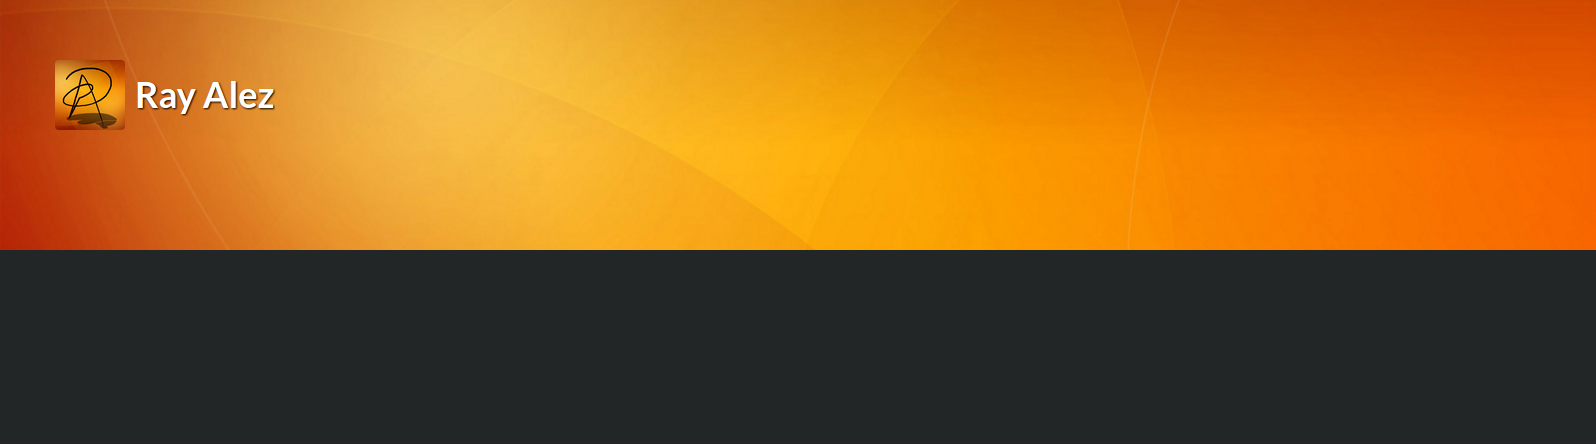
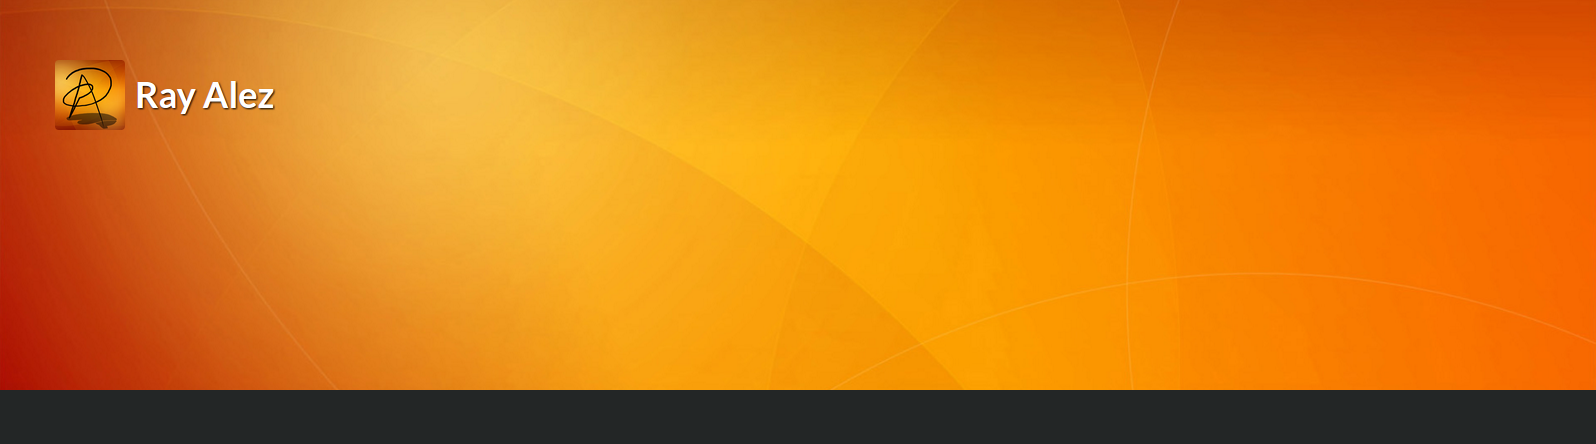
Update.

diff --git a/webcomics/templates/posts/browse.html b/webcomics/templates/posts/browse.html
@@ -3,78 +3,77 @@ n{% load thumbnail %}
 
 {% block content %}
 
-
-<!-- <div class="orbit" role="region"data-orbit data-use-m-u-i="false"> -->
-<!--         <ul class="orbit-container"> -->
-<!--           <button class="orbit-previous" aria-label="previous"><span class="show-for-sr">Previous Slide</span>&#9664;</button> -->
-<!--           <button class="orbit-next" aria-label="next"><span class="show-for-sr">Next Slide</span>&#9654;</button> -->
+<div id="featured">
+<div class="orbit" role="region"data-orbit data-use-m-u-i="false">
+        <ul class="orbit-container">
+          <button class="orbit-previous" aria-label="previous"><span class="show-for-sr">Previous Slide</span>&#9664;</button>
+          <button class="orbit-next" aria-label="next"><span class="show-for-sr">Next Slide</span>&#9654;</button>
 	  
-<!--           <li class="is-active orbit-slide"> -->
-<!--             <div> -->
-<!-- 	      <a href="/post/welcome"> -->
-<!-- 	      <img src="/static/img/valley.jpg" style="position:relative;width:100%;top:-320px;" /> -->
-<!-- 	      <figcaption class="orbit-caption">Featured post: &nbsp; Welcome!</figcaption> -->
-<!-- 	      </a> -->
-<!--             </div> -->
-<!--           </li> -->
+          <li class="is-active orbit-slide">
+            <div>
+	      <a href="/post/welcome">
+	      <img src="/static/img/featured/valley_cropped.png" style="width:100%" />
+	      <figcaption class="orbit-caption">Featured post: &nbsp; Welcome!</figcaption>
+	      </a>
+            </div>
+          </li>
 
 
 
-<!--           <li class="is-active orbit-slide"> -->
-<!--             <div> -->
-<!--  	      <a href="/series/orange-mind"> -->
-<!--  		<\!-- -->
-<!--  	      <div class="subheader series-subheader" deluminate_imagetype="png"> -->
-<!--  		<style> -->
-<!--  		  .subheader { -->
-<!--  		  background:url(/media/cache/7a/e4/7ae4e6228a286e89e5456dce06c63fad.png); -->
-<!--  		  } -->
-<!--  		</style> -->
-<!--  		<div class="row"> -->
-<!--  		  <div class="large-6 small-6 columns user-info"> -->
-<!--  		      <img src="/media/cache/aa/fe/aafed867e404d07676ac3f6008f8f7dc.png" class="avatar"> -->
-<!--  		      <div class="left"> -->
-<!--  			<h1 class="username" style="margin-top: 16px;"> Orange Mind</h1> -->
-<!--  		      </div> -->
-<!--  		  </div> -->
-<!--  		</div> -->
-<!--  	      </div> -->
-<!--  -\-> -->
-<!--  	    <img src="/static/img/featured/orange-mind4.png" style="margin-top:-30px;margin-left:-10px;"/> -->
-<!--  	    <img src="http://webcomics.io/media/cache/86/50/8650602b5bb95e760ecd8ff3f9b7f012.png" -->
-<!--  		 style="position:relative;width:100%;top:-0;" /> -->
-<!--  	    <figcaption class="orbit-caption">Featured series: &nbsp; Orange Mind</figcaption> -->
+          <li class="is-active orbit-slide">
+            <div>
+ 	      <a href="/series/orange-mind">
+ 		<!--
+ 	      <div class="subheader series-subheader" deluminate_imagetype="png">
+ 		<style>
+ 		  .subheader {
+ 		  background:url(/media/cache/7a/e4/7ae4e6228a286e89e5456dce06c63fad.png);
+ 		  }
+ 		</style>
+ 		<div class="row">
+ 		  <div class="large-6 small-6 columns user-info">
+ 		      <img src="/media/cache/aa/fe/aafed867e404d07676ac3f6008f8f7dc.png" class="avatar">
+ 		      <div class="left">
+ 			<h1 class="username" style="margin-top: 16px;"> Orange Mind</h1>
+ 		      </div>
+ 		  </div>
+ 		</div>
+ 	      </div>
+ -->
+ 	    <img src="/static/img/featured/orange-mind5.png" style="width:100%; margin-top:-30px;margin-left:-10px;"/>
+ 	    <figcaption class="orbit-caption">Featured series: &nbsp; Orange Mind</figcaption>
 		
-<!--  	      </a> -->
-<!--             </div> -->
-<!--           </li> -->
+ 	      </a>
+            </div>
+          </li>
 
 
-<!--           <li class="is-active orbit-slide"> -->
-<!--             <div> -->
-<!--  	      <a href="/user/rayalez"> -->
-
-<!--  	    <img src="/static/img/featured/ray-alez4.png" style="margin-top:-8px;"/> -->
-<!--  	    <img src="http://webcomics.io/media/cache/86/50/8650602b5bb95e760ecd8ff3f9b7f012.png" -->
-<!--  		 style="position:relative;width:100%;top:-0;" /> -->
-<!--  	    <figcaption class="orbit-caption">Featured artist: &nbsp; Ray Alez</figcaption> -->
-		
-<!--  	      </a> -->
-<!--             </div> -->
-<!--           </li> -->
+          <li class="is-active orbit-slide">
+            <div>
+ 	      <a href="/user/rayalez">
+ 		<img src="/static/img/featured/ray-alez4.png" style="margin-top:-8px;width:100%;"/>
+ 		<figcaption class="orbit-caption">Featured artist: &nbsp; Ray Alez</figcaption>
+ 	      </a>
+            </div>
+          </li>
   	  
   
-<!-- </div> -->
+</div>
+</div>
 
-<!-- <script> -->
-<!--   var elem = new Foundation.Orbit($(".orbit"), {timerDelay: 15000}); -->
-<!-- </script> -->
+<script>
+  var elem = new Foundation.Orbit($(".orbit"), {timerDelay: 15000});
+</script>
 
 
 <style>
   .orbit-slide {
   height:190px;
   }
+  #featured {
+  height:190px;  
+  }
+
 </style>
 
 {% include "elements/subnav.html" %}
